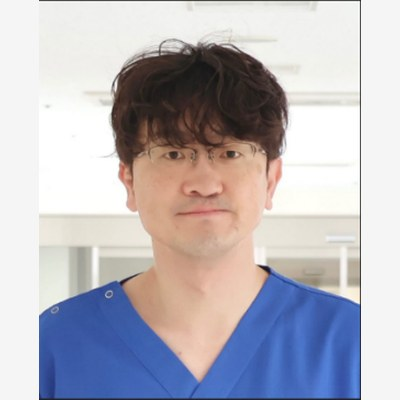
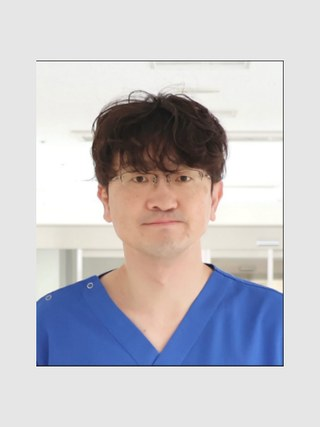
講師情報の修正・抄録モーダル機能追加
- 木村得尚先生の名前表記を統一（木村尚得→木村得尚）
- 益岡弘・福井充香・高井佑実先生の所属変更
- 福井充香先生の講演タイトル追加
- 片岡和哉先生→中島健吾先生（歯磨き指導担当）に修正
- 講師カードをクリックで抄録が読めるモーダルを実装
- 講師写真3枚（iwaki/ueda-k/ueda-y）差し替え・キャッシュ更新

diff --git a/index.html b/index.html
@@ -488,7 +488,8 @@ body.high-contrast{filter:contrast(1.55) brightness(0.95)}
 /* ── SPEAKERS ── */
 #speakers{background:linear-gradient(160deg,#f0fdf4 0%,#fffde7 100%);padding:72px 0}
 .spk-grid{display:grid;grid-template-columns:repeat(auto-fill,minmax(260px,1fr));gap:24px;margin-top:8px}
-.spk-card{background:#fff;border-radius:20px;overflow:hidden;box-shadow:0 4px 20px rgba(0,0,0,.08);transition:all .25s;border:1.5px solid #e8f5e8;display:flex;flex-direction:column}
+.spk-card{background:#fff;border-radius:20px;overflow:hidden;box-shadow:0 4px 20px rgba(0,0,0,.08);transition:all .25s;border:1.5px solid #e8f5e8;display:flex;flex-direction:column;cursor:pointer}
+.spk-hint{font-size:.7rem;color:var(--green-d);margin-top:auto;padding-top:10px;opacity:.65;text-align:right}
 .spk-card:hover{transform:translateY(-6px);box-shadow:0 14px 36px rgba(0,0,0,.13)}
 .spk-photo{width:100%;height:220px;object-fit:cover;object-position:center 15%}
 .spk-photo-placeholder{width:100%;height:200px;background:linear-gradient(135deg,#d1fae5,#bbf7d0);display:flex;align-items:center;justify-content:center;font-size:4rem}
@@ -762,8 +763,8 @@ body.high-contrast{filter:contrast(1.55) brightness(0.95)}
       <div class="tl-item show"><div class="tl-dot"></div><div class="tl-time">午後 2:30</div><div class="tl-body"><strong><span class="tl-badge tb-all">全員</span>集会・受付開始</strong></div></div>
       <div class="tl-item show"><div class="tl-dot"></div><div class="tl-time">午後 4:00</div><div class="tl-body"><strong><span class="tl-badge tb-all">全員</span>開会式</strong></div></div>
       <div class="tl-item show"><div class="tl-dot"></div><div class="tl-time">午後 6:00</div><div class="tl-body"><strong><span class="tl-badge tb-all">全員</span>夕食</strong></div></div>
-      <div class="tl-item show"><div class="tl-dot orange"></div><div class="tl-time">午後 7:30</div><div class="tl-body"><strong><span class="tl-badge tb-child">お子様</span>キャンプファイヤー / 歯磨き指導</strong><p>担当：片岡 和哉先生、小島 将督先生<br>夜の六甲山で大きな炎を囲んで！</p></div></div>
-      <div class="tl-item show"><div class="tl-dot sky"></div><div class="tl-time">午後 7:30</div><div class="tl-body"><strong><span class="tl-badge tb-parent">保護者様</span>勉強会 Part 1</strong><p>講師：木村尚得先生、益岡弘先生、松本学先生　患者代表：上田優輔先生<br>＊講演後、時間の許す限り個別に質問を受け付けます。各方面の専門医がおります。ざっくばらんにお話しください。</p></div></div>
+      <div class="tl-item show"><div class="tl-dot orange"></div><div class="tl-time">午後 7:30</div><div class="tl-body"><strong><span class="tl-badge tb-child">お子様</span>キャンプファイヤー / 歯磨き指導</strong><p>担当：中島 健吾先生、小島 将督先生<br>夜の六甲山で大きな炎を囲んで！</p></div></div>
+      <div class="tl-item show"><div class="tl-dot sky"></div><div class="tl-time">午後 7:30</div><div class="tl-body"><strong><span class="tl-badge tb-parent">保護者様</span>勉強会 Part 1</strong><p>講師：木村得尚先生、益岡弘先生、松本学先生　患者代表：上田優輔先生<br>＊講演後、時間の許す限り個別に質問を受け付けます。各方面の専門医がおります。ざっくばらんにお話しください。</p></div></div>
       <div class="tl-item show"><div class="tl-dot"></div><div class="tl-time">午後 9:00</div><div class="tl-body"><strong><span class="tl-badge tb-all">全員</span>懇親会</strong></div></div>
     </div>
     <div class="timeline reveal" id="day2" style="display:none">
@@ -843,7 +844,7 @@ body.high-contrast{filter:contrast(1.55) brightness(0.95)}
     <div class="spk-day-head">📅 8月1日（土）— 勉強会 Part 1</div>
     <div class="spk-grid reveal">
 
-      <div class="spk-card">
+      <div class="spk-card" onclick="openSpk('kimura')">
         <img class="spk-photo" src="speaker-kimura.jpg?v=3" alt="木村得尚先生" loading="lazy">
         <div class="spk-body">
           <span class="spk-day">8/1 Part 1</span>
@@ -853,21 +854,23 @@ body.high-contrast{filter:contrast(1.55) brightness(0.95)}
           <hr class="spk-divider">
           <div class="spk-talk-label">講演タイトル</div>
           <div class="spk-talk">仕上げとしての鼻修正術</div>
+          <div class="spk-hint">🔍 抄録を読む</div>
         </div>
       </div>
 
-      <div class="spk-card">
+      <div class="spk-card" onclick="openSpk('masuoka')">
         <img class="spk-photo" src="speaker-masuoka.jpg?v=3" alt="益岡弘先生" loading="lazy">
         <div class="spk-body">
           <span class="spk-day">8/1 Part 1</span>
           <div class="spk-dept">🏥 形成外科</div>
           <div class="spk-name">益岡 弘 先生</div>
-          <div class="spk-org">関西医科大学 形成外科</div>
+          <div class="spk-org">関西医科大学形成外科学講座</div>
+          <div class="spk-hint">🔍 詳細を見る</div>
         </div>
       </div>
 
-      <div class="spk-card">
-        <img class="spk-photo" src="speaker-ueda-y.jpg?v=3" alt="上田優輔先生" loading="lazy">
+      <div class="spk-card" onclick="openSpk('ueda_y')">
+        <img class="spk-photo" src="speaker-ueda-y.jpg?v=4" alt="上田優輔先生" loading="lazy">
         <div class="spk-body">
           <span class="spk-day">8/1 Part 1</span>
           <div class="spk-dept">🩺 産婦人科・臨床遺伝専門医</div>
@@ -876,10 +879,11 @@ body.high-contrast{filter:contrast(1.55) brightness(0.95)}
           <hr class="spk-divider">
           <div class="spk-talk-label">講演タイトル</div>
           <div class="spk-talk">口唇口蓋裂とともに生きる ― 当事者医師から親子へのメッセージ</div>
+          <div class="spk-hint">🔍 抄録を読む</div>
         </div>
       </div>
 
-      <div class="spk-card">
+      <div class="spk-card" onclick="openSpk('matsumoto')">
         <img class="spk-photo" src="speaker-matsumoto.jpg?v=3" alt="松本学先生" loading="lazy">
         <div class="spk-body">
           <span class="spk-day">8/1 Part 1</span>
@@ -889,6 +893,7 @@ body.high-contrast{filter:contrast(1.55) brightness(0.95)}
           <hr class="spk-divider">
           <div class="spk-talk-label">講演タイトル</div>
           <div class="spk-talk">みんなで支える、子どもの新生活と集団適応のヒント</div>
+          <div class="spk-hint">🔍 抄録を読む</div>
         </div>
       </div>
 
@@ -897,7 +902,7 @@ body.high-contrast{filter:contrast(1.55) brightness(0.95)}
     <div class="spk-day-head">📅 8月2日（日）— 勉強会 Part 2</div>
     <div class="spk-grid reveal">
 
-      <div class="spk-card">
+      <div class="spk-card" onclick="openSpk('iwaki')">
         <img class="spk-photo" src="speaker-iwaki.jpg?v=5" alt="岩城忍先生" loading="lazy">
         <div class="spk-body">
           <span class="spk-day d2">8/2 Part 2</span>
@@ -907,11 +912,12 @@ body.high-contrast{filter:contrast(1.55) brightness(0.95)}
           <hr class="spk-divider">
           <div class="spk-talk-label">講演タイトル</div>
           <div class="spk-talk">口唇口蓋裂を持つ子どもの発音と治療</div>
+          <div class="spk-hint">🔍 抄録を読む</div>
         </div>
       </div>
 
-      <div class="spk-card">
-        <img class="spk-photo" src="speaker-ueda-k.jpg?v=3" alt="上田晃一先生" loading="lazy">
+      <div class="spk-card" onclick="openSpk('ueda_k')">
+        <img class="spk-photo" src="speaker-ueda-k.jpg?v=4" alt="上田晃一先生" loading="lazy">
         <div class="spk-body">
           <span class="spk-day d2">8/2 Part 2</span>
           <div class="spk-dept">🏥 形成外科</div>
@@ -920,10 +926,11 @@ body.high-contrast{filter:contrast(1.55) brightness(0.95)}
           <hr class="spk-divider">
           <div class="spk-talk-label">講演タイトル</div>
           <div class="spk-talk">口唇と鼻における成長に応じた追加手術</div>
+          <div class="spk-hint">🔍 抄録を読む</div>
         </div>
       </div>
 
-      <div class="spk-card">
+      <div class="spk-card" onclick="openSpk('yamamoto')">
         <img class="spk-photo" src="speaker-yamamoto.jpg?v=3" alt="山本一郎先生" loading="lazy">
         <div class="spk-body">
           <span class="spk-day d2">8/2 Part 2</span>
@@ -933,16 +940,21 @@ body.high-contrast{filter:contrast(1.55) brightness(0.95)}
           <hr class="spk-divider">
           <div class="spk-talk-label">講演タイトル</div>
           <div class="spk-talk">歯科矯正と言葉の治療に使う装置について</div>
+          <div class="spk-hint">🔍 抄録を読む</div>
         </div>
       </div>
 
-      <div class="spk-card">
+      <div class="spk-card" onclick="openSpk('fukui')">
         <div class="spk-photo-placeholder">👩⚕</div>
         <div class="spk-body">
           <span class="spk-day d2">8/2 Part 2</span>
           <div class="spk-dept">🏥 形成外科</div>
           <div class="spk-name">福井 充香 先生</div>
-          <div class="spk-org">関西医科大学 形成外科学講座</div>
+          <div class="spk-org">関西医科大学形成外科学講座</div>
+          <hr class="spk-divider">
+          <div class="spk-talk-label">講演タイトル</div>
+          <div class="spk-talk">口唇口蓋裂の骨切り術について</div>
+          <div class="spk-hint">🔍 抄録を読む</div>
         </div>
       </div>
 
@@ -967,7 +979,7 @@ body.high-contrast{filter:contrast(1.55) brightness(0.95)}
 
     <div class="staff-panel show reveal" id="ps">
       <div class="staff-card"><div class="sc-bar"></div><div class="sc-body"><span class="sc-dept ps">🏥 形成外科</span><div class="sc-name">上田 晃一</div><div class="sc-org">大阪府済生会吹田病院<br>大阪医科薬科大学 名誉教授</div></div></div>
-      <div class="staff-card"><div class="sc-bar"></div><div class="sc-body"><span class="sc-dept ps">🏥 形成外科</span><div class="sc-name">益岡 弘</div><div class="sc-org">関西医科大学 形成外科</div></div></div>
+      <div class="staff-card"><div class="sc-bar"></div><div class="sc-body"><span class="sc-dept ps">🏥 形成外科</span><div class="sc-name">益岡 弘</div><div class="sc-org">関西医科大学形成外科学講座</div></div></div>
       <div class="staff-card"><div class="sc-bar"></div><div class="sc-body"><span class="sc-dept ps">🏥 形成外科</span><div class="sc-name">木村 得尚</div><div class="sc-org">広島市民病院 形成外科</div></div></div>
       <div class="staff-card"><div class="sc-bar"></div><div class="sc-body"><span class="sc-dept ps">🏥 形成外科</span><div class="sc-name">池田 実香</div><div class="sc-org">神戸医療センター中央市民病院</div></div></div>
       <div class="staff-card"><div class="sc-bar"></div><div class="sc-body"><span class="sc-dept ps">🏥 形成外科</span><div class="sc-name">片岡 和哉</div><div class="sc-org">神戸医療センター中央市民病院</div></div></div>
@@ -985,7 +997,7 @@ body.high-contrast{filter:contrast(1.55) brightness(0.95)}
     <div class="staff-panel reveal" id="st">
       <div class="staff-card"><div class="sc-bar purple"></div><div class="sc-body"><span class="sc-dept st">🗣 言語聴覚士</span><div class="sc-name">岩城 忍</div><div class="sc-org">神戸大学医学部附属病院 耳鼻咽喉科</div></div></div>
       <div class="staff-card"><div class="sc-bar purple"></div><div class="sc-body"><span class="sc-dept st">🗣 言語聴覚士</span><div class="sc-name">石木 陽介</div><div class="sc-org">山本歯科医院 矯正歯科クリニック</div></div></div>
-      <div class="staff-card"><div class="sc-bar purple"></div><div class="sc-body"><span class="sc-dept st">🗣 言語聴覚士</span><div class="sc-name">高井 佑実</div><div class="sc-org">関西医科大学附属病院 形成外科</div></div></div>
+      <div class="staff-card"><div class="sc-bar purple"></div><div class="sc-body"><span class="sc-dept st">🗣 言語聴覚士</span><div class="sc-name">高井 佑実</div><div class="sc-org">関西医科大学附属病院 形成外科 ST</div></div></div>
       <div class="staff-card"><div class="sc-bar purple"></div><div class="sc-body"><span class="sc-dept st">🗣 言語聴覚士</span><div class="sc-name">前川 圭子</div><div class="sc-org">神戸医療センター中央市民病院 耳鼻咽喉科</div></div></div>
       <div class="staff-card"><div class="sc-bar purple"></div><div class="sc-body"><span class="sc-dept st">🗣 言語聴覚士</span><div class="sc-name">守屋 ゆう子</div><div class="sc-org">山本歯科医院 矯正歯科クリニック</div></div></div>
     </div>
@@ -1182,6 +1194,29 @@ body.high-contrast{filter:contrast(1.55) brightness(0.95)}
   </div>
 </footer>
 
+<!-- SPEAKER MODAL -->
+<div id="spkModal" class="modal-ov" onclick="if(event.target===this)closeM('spkModal')">
+  <div class="modal-box">
+    <button class="modal-close" onclick="closeM('spkModal')">✕</button>
+    <img class="modal-img" id="spkImg" src="" alt="" style="display:none">
+    <div class="modal-img-ph" id="spkImgPh" style="display:none"><span class="mip-icon">👨⚕</span><span class="mip-t">写真準備中</span></div>
+    <div class="modal-body">
+      <span id="spkDeptTag" class="m-tag" style="background:#d1fae5;color:#065f46"></span>
+      <h3 id="spkName" style="margin-top:8px"></h3>
+      <p id="spkOrg" style="font-size:.82rem;color:#6b7280;margin-bottom:12px"></p>
+      <div id="spkTitleWrap">
+        <div style="font-size:.65rem;font-weight:900;color:var(--green-d);letter-spacing:.06em;margin-bottom:4px">講演タイトル</div>
+        <div id="spkTitle" style="font-size:.9rem;font-weight:800;color:var(--orange);border-left:3px solid var(--orange);padding-left:10px;margin-bottom:14px;line-height:1.5"></div>
+      </div>
+      <div id="spkAbstractWrap">
+        <div style="font-size:.65rem;font-weight:900;color:var(--green-d);letter-spacing:.06em;margin-bottom:6px">抄録</div>
+        <p id="spkAbstract" style="font-size:.88rem;color:#374151;line-height:1.85"></p>
+      </div>
+      <p id="spkNoAbstract" style="display:none;font-size:.85rem;color:#9ca3af;font-style:italic">抄録は現在準備中です。</p>
+    </div>
+  </div>
+</div>
+
 <!-- MODALS -->
 <div id="actModal" class="modal-ov" onclick="if(event.target===this)closeM('actModal')">
   <div class="modal-box">
@@ -1284,7 +1319,7 @@ function switchDept(id){
 // Activity data
 const ACT={
   campfire:{tag:'🧒 お子様向け',tagColor:'#ec4899',title:'🏕 キャンプファイヤー',desc:'1日目の夜（19:30〜）、夜の六甲山に大きな炎が燃え上がるキャンプのクライマックス！みんなで輪になって楽しみます。同じ仲間たちと過ごすこの夜は、一生の思い出になるはずです。',photo:'25_0823.01_22_43_19.静止画043.jpg'},
-  hamigaki:{tag:'🧒 お子様向け',tagColor:'#ec4899',title:'🦷 歯磨き指導',desc:'1日目の夜、キャンプファイヤーと並行して実施。担当：片岡和哉先生・小島将督先生による丁寧な歯磨き指導です。口唇口蓋裂のお子さんは歯並びが複雑なことも多く、正しいブラッシングが特に大切。楽しみながら正しいケアを学べます。',photo:'25_0823.01_27_05_15.静止画047 (1).jpg'},
+  hamigaki:{tag:'🧒 お子様向け',tagColor:'#ec4899',title:'🦷 歯磨き指導',desc:'1日目の夜、キャンプファイヤーと並行して実施。担当：中島健吾先生・小島将督先生による丁寧な歯磨き指導です。口唇口蓋裂のお子さんは歯並びが複雑なことも多く、正しいブラッシングが特に大切。楽しみながら正しいケアを学べます。',photo:'25_0823.01_27_05_15.静止画047 (1).jpg'},
   athletic:{tag:'🧒 お子様向け',tagColor:'#ec4899',title:'🏃 アスレチック体験（屋外）',desc:'2日目の午前（9:00〜）、六甲山の豊かな自然の中に設置されたアスレチックコースに挑戦！ロープを登ったり、丸太を渡ったり、体を思いっきり動かして楽しみます。自然の中での冒険は子どもたちの心を育てます。',photo:'25_0824.00_24_05_12.静止画017.jpg'},
   suika:{tag:'🧒 お子様向け',tagColor:'#ec4899',title:'🍉 スイカ割り',desc:'2日目の午前（9:00〜）、夏の定番スイカ割り！目隠しをして、みんなの声を頼りにスイカめがけて棒を振ります。成功したら割れたスイカをみんなで食べる、夏らしいひとときです。',photo:'25_0824.01_06_43_20.静止画029.jpg'},
   consul:{tag:'👨👩👧 保護者様向け',tagColor:'#0ea5e9',title:'💬 専門医 個別相談会',desc:'2日目の勉強会Part2終了後、各専門家による個別相談会を実施。形成外科・矯正歯科・言語聴覚士など各専門家と直接お話できます。「次の手術はいつ頃？」「言葉の発達が気になる」「矯正のタイミングは？」など、日頃聞けない疑問をこの機会にぜひ。',photo:'25_0824.00_47_52_07.静止画024.jpg'},
@@ -1317,7 +1352,35 @@ function closeM(id){
   document.getElementById(id).classList.remove('open')
   document.body.style.overflow=''
 }
-document.addEventListener('keydown',e=>{if(e.key==='Escape'){closeM('actModal');closeM('staffModal');closeM('checklistModal');closeM('galModal');document.getElementById('chat-window').classList.remove('open')}})
+// ── SPEAKERS ──
+const SPK={
+  kimura:{name:'木村 得尚 先生',dept:'🏥 形成外科',org:'広島市民病院 形成外科',title:'仕上げとしての鼻修正術',abstract:'鼻の形状は成長とともに変わっていきます。そのため第２次性徴以降で鼻の修正を行うことが多くあります。まず小鼻と鼻柱の位置関係を対称にし、鼻の穴の形状を正面視でも下から仰ぎ見ても対称にし、鼻筋を通して鼻尖をスマートな形にしていきます。色々な方法を供覧していただきます。',photo:'speaker-kimura.jpg?v=3'},
+  masuoka:{name:'益岡 弘 先生',dept:'🏥 形成外科',org:'関西医科大学形成外科学講座',title:'',abstract:'',photo:'speaker-masuoka.jpg?v=3'},
+  ueda_y:{name:'上田 優輔 先生',dept:'🩺 産婦人科・臨床遺伝専門医',org:'京都大学病院 産婦人科 特定病院助教',title:'口唇口蓋裂とともに生きる ― 当事者医師から親子へのメッセージ',abstract:'産婦人科医、臨床遺伝専門医、そして口唇口蓋裂の当事者として、自身の経験を交えながらお話しします。子どもが自信を持って成長するために大切なこと、そして親が安心して子どもの可能性を信じることの意義について、一緒に考えたいと思います。',photo:'speaker-ueda-y.jpg?v=4'},
+  matsumoto:{name:'松本 学 先生',dept:'🧠 公認心理師',org:'東北大学病院 形成外科',title:'みんなで支える、子どもの新生活と集団適応のヒント',abstract:'幼児期から児童期のお子さんが、幼稚園や学校などの集団生活にスムーズに馴染むための、ご家庭での準備や専門職との上手な連携方法をお話しします。気になる学業へのお悩みにも触れながら、みんなで楽しく育ちを支えるヒントをお届けします。',photo:'speaker-matsumoto.jpg?v=3'},
+  iwaki:{name:'岩城 忍 先生',dept:'🗣 言語聴覚士',org:'神戸大学医学部附属病院 耳鼻咽喉科',title:'口唇口蓋裂を持つ子どもの発音と治療',abstract:'発音の誤りには、口唇口蓋裂の影響によるものだけでなく、発達過程で誰にでも起こり得るものも含まれています。言語聴覚士は、お子様の発達やお口の状態を評価し、訓練の必要性を判断します。本勉強会では、起こりうる発音の問題や具体的な訓練方法について紹介します。お子様に最適な支援を一緒に学びましょう。',photo:'speaker-iwaki.jpg?v=5'},
+  ueda_k:{name:'上田 晃一 先生',dept:'🏥 形成外科',org:'大阪府済生会吹田病院 形成外科 / 大阪医科薬科大学 名誉教授',title:'口唇と鼻における成長に応じた追加手術',abstract:'初回手術で100%治すことは難しい。成長期の手術侵襲は最小限に行われなければならないが、就学前5〜6歳時の鼻形成術と、10〜12歳くらいの口唇の修正術の計2回の追加手術は必要であると考えています。そのような成長に応じた追加手術について主に15年以上の長期経過例をお示しして、説明したいと思います。',photo:'speaker-ueda-k.jpg?v=4'},
+  yamamoto:{name:'山本 一郎 先生',dept:'🦷 歯科医師（矯正歯科）',org:'山本歯科医院 矯正歯科クリニック',title:'歯科矯正と言葉の治療に使う装置について',abstract:'出生の直後から矯正歯科はいろいろな場面に関わっています。今回は、乳児期、幼児期、学童期、青年期、成人期の各段階で使用される歯科的装置をご紹介します。そして、それらの使用目的、使用方法についてお話します。',photo:'speaker-yamamoto.jpg?v=3'},
+  fukui:{name:'福井 充香 先生',dept:'🏥 形成外科',org:'関西医科大学形成外科学講座',title:'口唇口蓋裂の骨切り術について',abstract:'口唇口蓋裂では、成長に伴いかみ合わせの問題が生じることがあります。特に上顎の成長が小さく、受け口やかみ合わせのずれにつながります。骨切り術という上下顎の骨のバランスを整える手術があり、かみ合わせだけでなく、お顔立ちのバランスの改善も期待できます。本発表では、その治療についてわかりやすく紹介します。',photo:null},
+}
+function openSpk(key){
+  const d=SPK[key];if(!d)return
+  const img=document.getElementById('spkImg'),ph=document.getElementById('spkImgPh')
+  if(d.photo){img.src=d.photo;img.alt=d.name;img.style.display='';ph.style.display='none'}
+  else{img.style.display='none';ph.style.display=''}
+  document.getElementById('spkDeptTag').textContent=d.dept
+  document.getElementById('spkName').textContent=d.name
+  document.getElementById('spkOrg').textContent=d.org
+  const tw=document.getElementById('spkTitleWrap'),te=document.getElementById('spkTitle')
+  if(d.title){te.textContent=d.title;tw.style.display=''}else{tw.style.display='none'}
+  const aw=document.getElementById('spkAbstractWrap'),ae=document.getElementById('spkAbstract'),na=document.getElementById('spkNoAbstract')
+  if(d.abstract){ae.textContent=d.abstract;aw.style.display='';na.style.display='none'}
+  else{aw.style.display='none';na.style.display=''}
+  document.getElementById('spkModal').classList.add('open')
+  document.body.style.overflow='hidden'
+}
+
+document.addEventListener('keydown',e=>{if(e.key==='Escape'){closeM('actModal');closeM('staffModal');closeM('checklistModal');closeM('galModal');closeM('spkModal');document.getElementById('chat-window').classList.remove('open')}})
 
 // ── GALLERY ──
 function openGal(el){
@@ -1473,7 +1536,7 @@ const FAQ=[
   {kw:['締め切り','期限','いつまで','締切'],ans:'申し込み締め切りは2026年7月25日（土）です。お早めにお申し込みください！',qr:['申し込み方法は？','参加費は？']},
   {kw:['アクセス','場所','会場','六甲','行き方','交通','電車'],ans:'会場は「神戸市立自然の家 六甲施設」（神戸市灘区六甲山町中一里山1-1）です。阪急「六甲」駅または阪神「御影」駅からバスでアクセスできます。お車の場合は阪神高速3号神戸線「魚崎IC」から約20分。駐車場もあります。',qr:['プログラムは？','宿泊について']},
   {kw:['プログラム','スケジュール','内容','何をする','なにをする'],ans:'1日目（8/1）：受付14:30→開会式16:00→夕食18:00→キャンプファイヤー・歯磨き指導 / 治療勉強会Part1（19:30）→懇親会21:00。2日目（8/2）：朝食8:00→スイカ割り・アスレチック / 治療勉強会Part2・個別相談会（9:00）→昼食12:00→閉会式13:00→解散14:00です。',qr:['アクティビティは？','専門医は？']},
-  {kw:['専門医','先生','相談','形成外科','矯正歯科','言語聴覚士','言語治療','産婦人科','公認心理士'],ans:'第27回は形成外科・矯正歯科・言語聴覚士・産婦人科・公認心理士のスペシャリスト18名が参加予定です。勉強会Part1講師：木村尚得先生・益岡弘先生・松本学先生、患者代表：上田優輔先生。Part2講師：岩城忍先生・上田晃一先生・山本一郎先生。歯磨き指導担当：片岡和哉先生・小島将督先生。個別相談会や懇親会で直接お話できます！',qr:['プログラムは？','申し込み方法は？']},
+  {kw:['専門医','先生','相談','形成外科','矯正歯科','言語聴覚士','言語治療','産婦人科','公認心理士'],ans:'第27回は形成外科・矯正歯科・言語聴覚士・産婦人科・公認心理士のスペシャリスト18名が参加予定です。勉強会Part1講師：木村得尚先生・益岡弘先生・松本学先生、患者代表：上田優輔先生。Part2講師：岩城忍先生・上田晃一先生・山本一郎先生。歯磨き指導担当：中島健吾先生・小島将督先生。個別相談会や懇親会で直接お話できます！',qr:['プログラムは？','申し込み方法は？']},
   {kw:['宿泊','泊まる','部屋','施設','泊'],ans:'神戸市立自然の家 六甲施設に1泊します。宿泊費は参加費に含まれています。',qr:['食事は？','持ち物は？','参加費は？']},
   {kw:['食事','ご飯','食べ物','アレルギー','食'],ans:'夕食・朝食・昼食が参加費に含まれます。食物アレルギーがある場合は申し込み時に必ずご連絡ください。',qr:['持ち物は？','参加費は？']},
   {kw:['持ち物','準備','何を持','荷物'],ans:'着替え・タオル・洗面用具・パジャマ・運動靴・雨具・保険証コピーなどが必要です。ページ内の「持ち物チェックリスト」ボタンをタップして確認してみてください！',qr:['チェックリストを開く','申し込み方法は？']},
